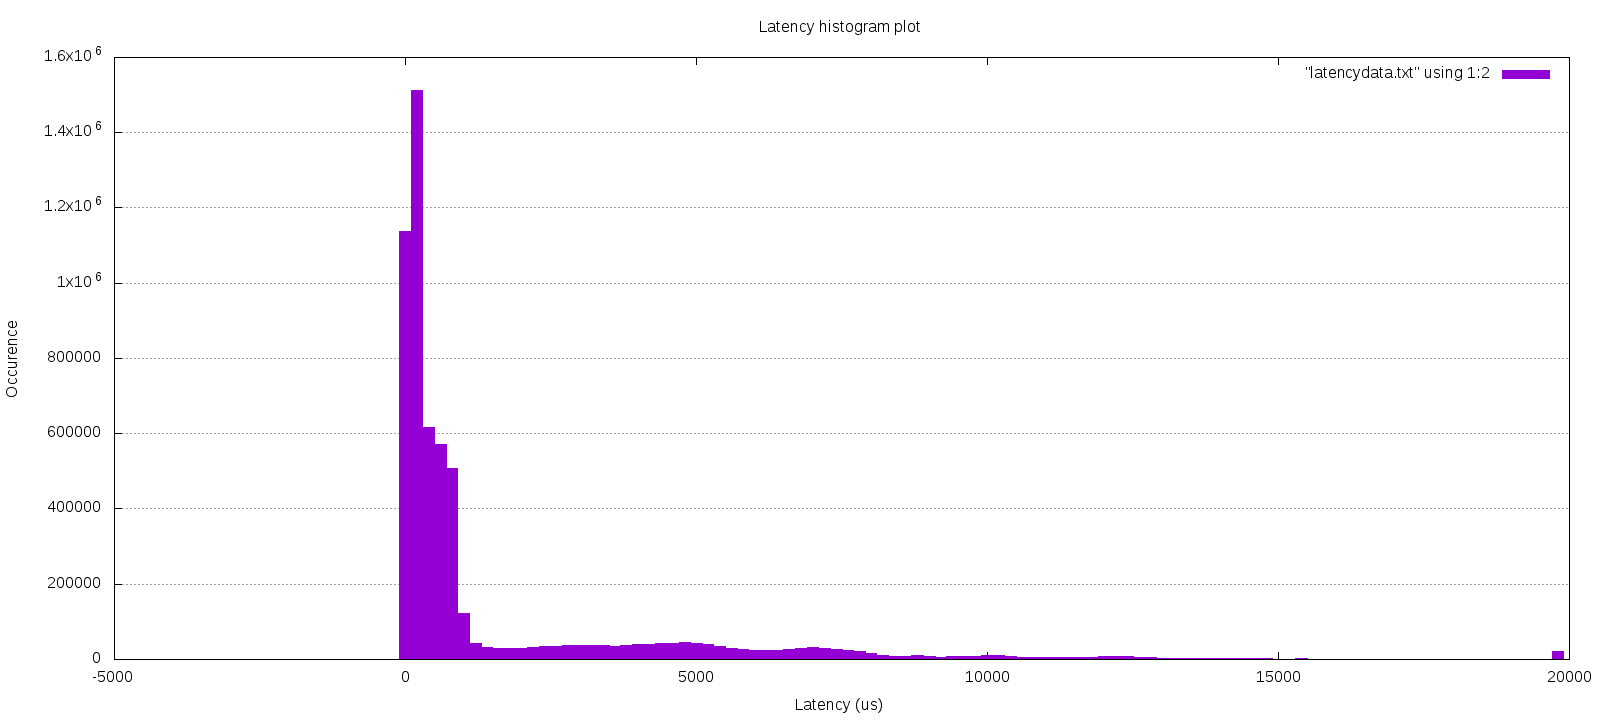
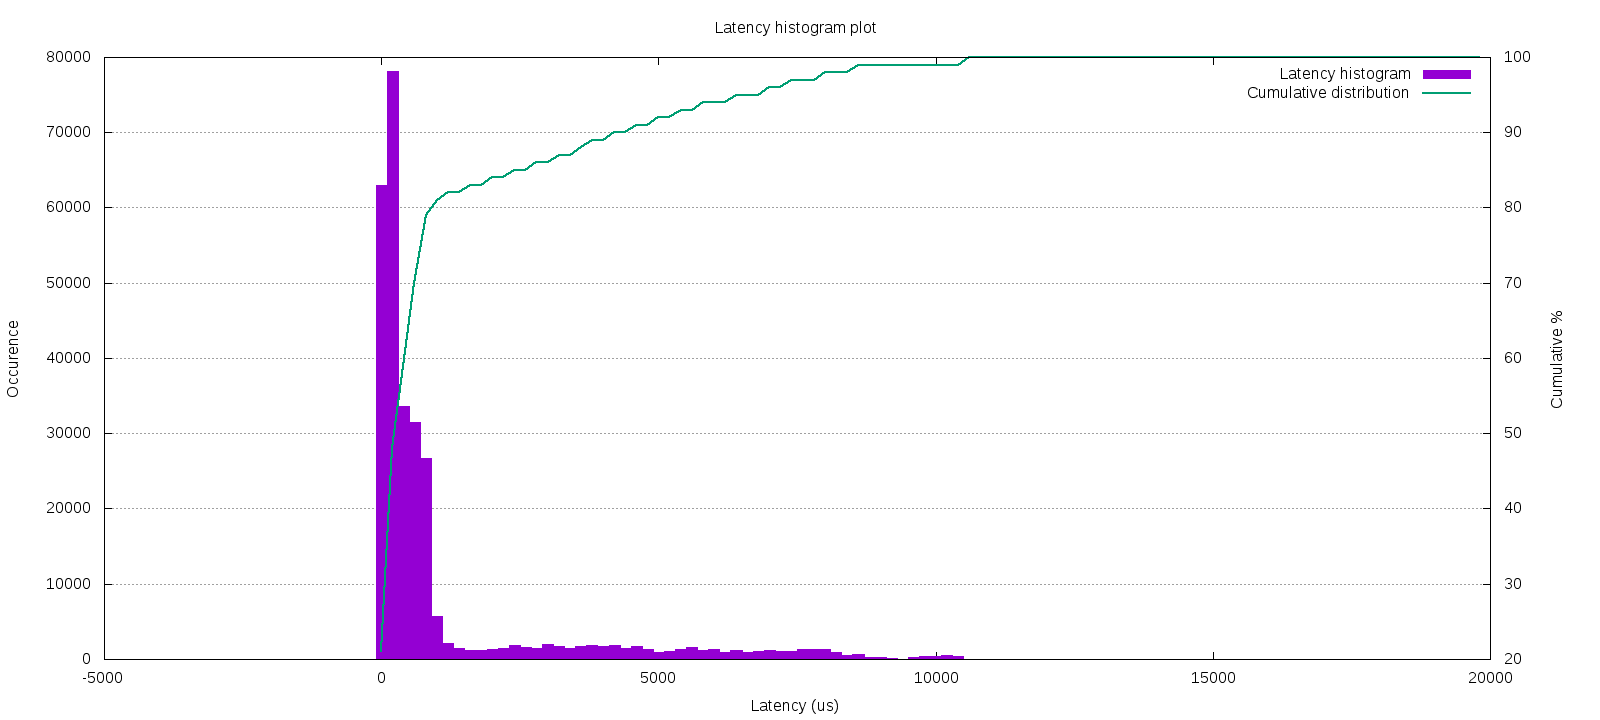
Added cumulative distribution function for latency

diff --git a/bwdelaytester.c b/bwdelaytester.c
@@ -157,11 +157,17 @@ void sig_handler(int signum)
      */
     if(!progsettings.clientmode) {
         fprintf(stderr, "## Printing latency histogram:\n");
+        uint64_t totpkts = 0;
         for(int i = 0; i < LATHIST_QUEUECOUNT; i++) {
-            fprintf(stderr, "%u %lu\n", i*LATHIST_MAX_LATMS*1000/LATHIST_QUEUECOUNT ,latencyhits[i]);
-
+            totpkts += latencyhits[i];
         }
-    {
+
+        uint64_t cumul = 0;
+        for(int i = 0; i < LATHIST_QUEUECOUNT; i++) {
+            cumul += latencyhits[i];
+            fprintf(stderr, "%u %lu %lu\n", i*LATHIST_MAX_LATMS*1000/LATHIST_QUEUECOUNT ,latencyhits[i], cumul*100/totpkts);
+        }
+    }
 
     /*
      * If we were the server, in sweep mode, print our sweep-mode stats before quitting

diff --git a/README.md b/README.md
@@ -110,10 +110,13 @@ At the end of the server execution, the program dumps something like this on std
 211800000 211800 0 0 120 1225 399
 213800000 213800 0 0 119 1079 377
 ^C## Printing latency histogram:   <======= Point of control+C
-0 1137150
-200 1512055
-400 616963
-600 572417
+0 63014 21
+200 78175 48
+400 33604 59
+600 31535 70
+800 26685 79
+1000 5678 81
+1200 2167 82
 ...
 
 ```
@@ -135,9 +138,11 @@ But when exiting the server, it will print and extra chunk of data, to STDERR, w
 
 ```
 ...
-19400 258
-19600 244
-19800 21970
+19000 0 100
+19200 0 100
+19400 0 100
+19600 0 100
+19800 0 100
 ## Printing sweep data:  <====== 
 1690 0.774273 0 17619 1188 12
 1700 0.000718 0 6187 630 92
